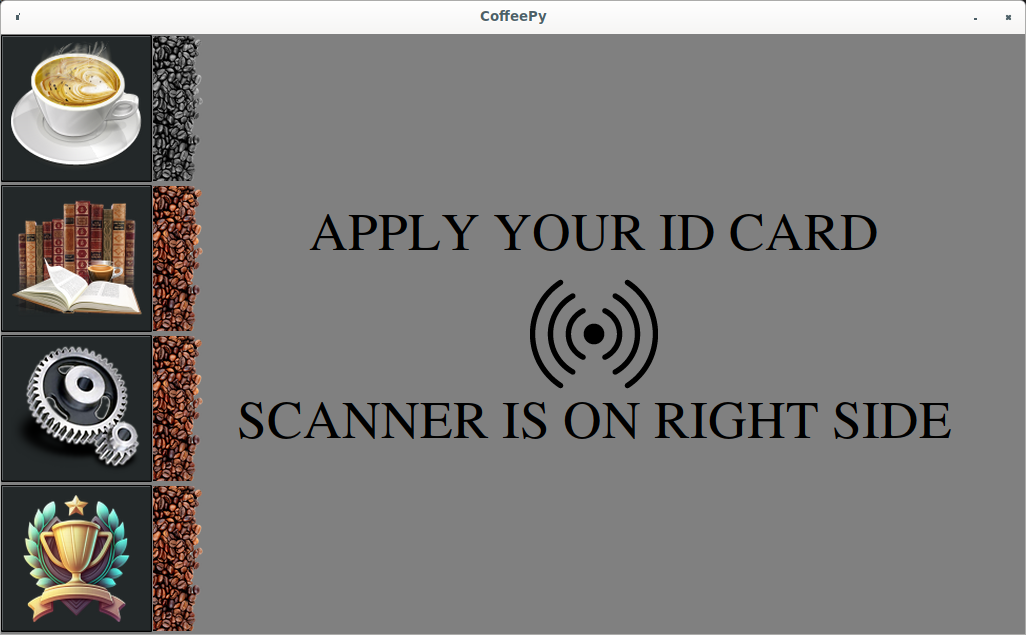
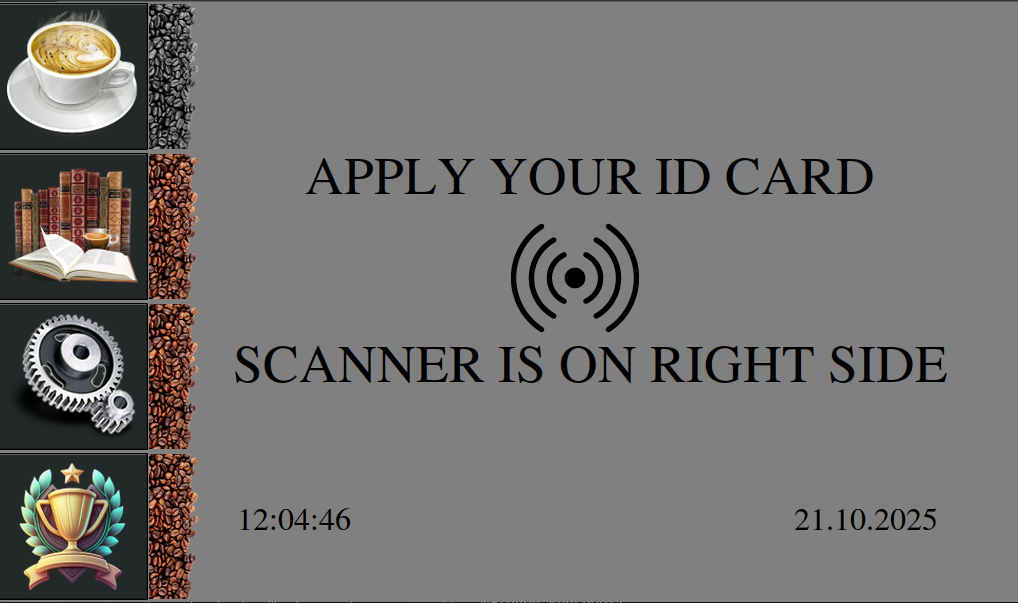
Update README to include details about the order screen and web interface configuration

Changed region(s): [[0.0, 0.0, 1.0, 1.0], [0.7613, 0.8358, 0.9136, 0.8955], [0.2436, 0.8358, 0.335, 0.8955]]

diff --git a/readme.md b/readme.md
@@ -74,8 +74,12 @@ The beans next to the buttons are showing the current selection. If the beans ne
 
 ![](doc/pictures/screen_applycard_order.png)
 
+```
+The order screen also shows the time and date of the system. Sometimes it's possible that the battery of the RTC is broken. With this feature you can track its behavior.
+```
+
 ## New User & User Settings
-If an new user applies his card to coffeepy he will directed to the setup submenu. By default the UID of the card will be used as nick, but it can be changed to any name. Also it is always possible to change the name by login in the setup menu (gear symbol).
+If a new user applies his card to coffeepy he will be directed to the setup submenu. By default the UID of the card will be used as nick, but it can be changed to any name. Also it is always possible to change the name by login in the setup menu (gear symbol).
 For fast-checkout the favourite coffee sort can be picked. So each time the user will add his card to order, this option will be selected by default. It is always possible to change the coffee product while checkout process.
 
 All date will stored by clicking on the "SAVE" button and the user will be logged out. Next time the user will apply the card the order menu will show up.
@@ -112,6 +116,49 @@ Next slide shows the top seven of the month.
 
 The last one shows the pillory. If the users did not pay the previous month or months, they will be shown on this slide. The guys with the highest negative deposit are shown on top. If the table is empty, no one has to pay for the previous months.
 ![](doc/pictures/screen_ranking_unpaied.png)
+
+# Webinterface
+CoffeePy will host a webserver on port 8000 by default. If you want any other port, you can assign it with the CoffeePy.ini by adding port under the section web. It's also possible to set the password for the login in there. By default the password is `secret` and default user is `admin`.
+
+Example:
+``` 
+[web]
+port = 8000
+admin_password = mypassword
+``` 
+ 
+How the webserver surface works
+
+The web interface is a small Flask application (templates live in `web/files`) that serves a protected dashboard after logging in with the single admin account (`admin` / default password `secret`, configurable via `CoffeePy.ini`). The main dashboard is split into tabs (Statistics, Coffee, Server time, Users, Deposit pillory) and the UI talks to a set of JSON endpoints; many endpoints require an authenticated session.
+
+Key JSON endpoints provided by the server:
+- `GET /api/system_time` — returns current server timestamp and ISO datetime. `POST /api/system_time` — sets the system time (requires authentication).
+- `GET /api/user_list` — returns the list of users (requires authentication).
+- `PUT /api/user` — update a user's metadata (requires authentication).
+- `GET /api/coffee_sorts` — list coffee sorts (requires authentication).
+- `PUT /api/coffee_sort` — update a coffee sort (requires authentication).
+- `GET /api/order_list` — returns orders; optional `start`/`end` ISO datetimes may be provided in the JSON request body to limit the range.
+- `GET /api/payment_list` — returns payments; optional `start`/`end` like above.
+- `GET /api/deposit_pillory` — returns pillory (unpaid deposit) ranking (requires authentication).
+
+The root `/` serves the dashboard (`index.html`) and is protected; `/login` and `/logout` handle session management. The Flask development server listens on port `8000` by default (changeable in `CoffeePy.ini`). For production deployments, run behind a proper WSGI server and set a secure `SECRET_KEY` and admin password.
+
+The webserver shows multiple sections to check data and to change settings like coffee prices or the system time.
+Web dashboard sections
+
+Toolbar
+- Download DB: download the current SQLite database file from the server for offline inspection or backup.
+- Reload all: refresh all tabs and data in the dashboard.
+- Logout: end the admin session and return to the login screen.
+
+Tabs / Sections (what you'll see and can do)
+- Statistics: An overview of recent orders and payments. Contains a bar chart showing monthly totals (last 12 months), a pie chart aggregating ordered coffee sorts (all time distribution), and a price development chart (average order price per coffee sort for the last 12 quarters). Totals and reload controls are provided.
+- Coffee: A table of coffee sorts (ID, name, price, machine strokes). Edit a coffee's price or number of strokes inline and press Save to update the database. Use Reload to refresh the list.
+- Server time: Displays current server time and provides date/time inputs to set the system time (requires authenticated access and OS-level capability on the host). Includes Refresh and Set server time controls.
+- Users: Lists registered users (UID, nickname, favourite coffee, alternative UID). Use this view to edit nicknames or favourite coffees and to assign an alternative UID if a physical card is lost/defective. Changes are sent to the backend via the user update endpoint.
+- Deposit pillory: Shows users with negative account balances (unpaid deposits), sorted by amount owed. Useful for seeing who still needs to pay; includes a Reload button to refresh the list.
+
+If you are using a Raspberry Pi, this can be used together with utilizing its WLAN interface as an access point.
 
 # Housing
 
